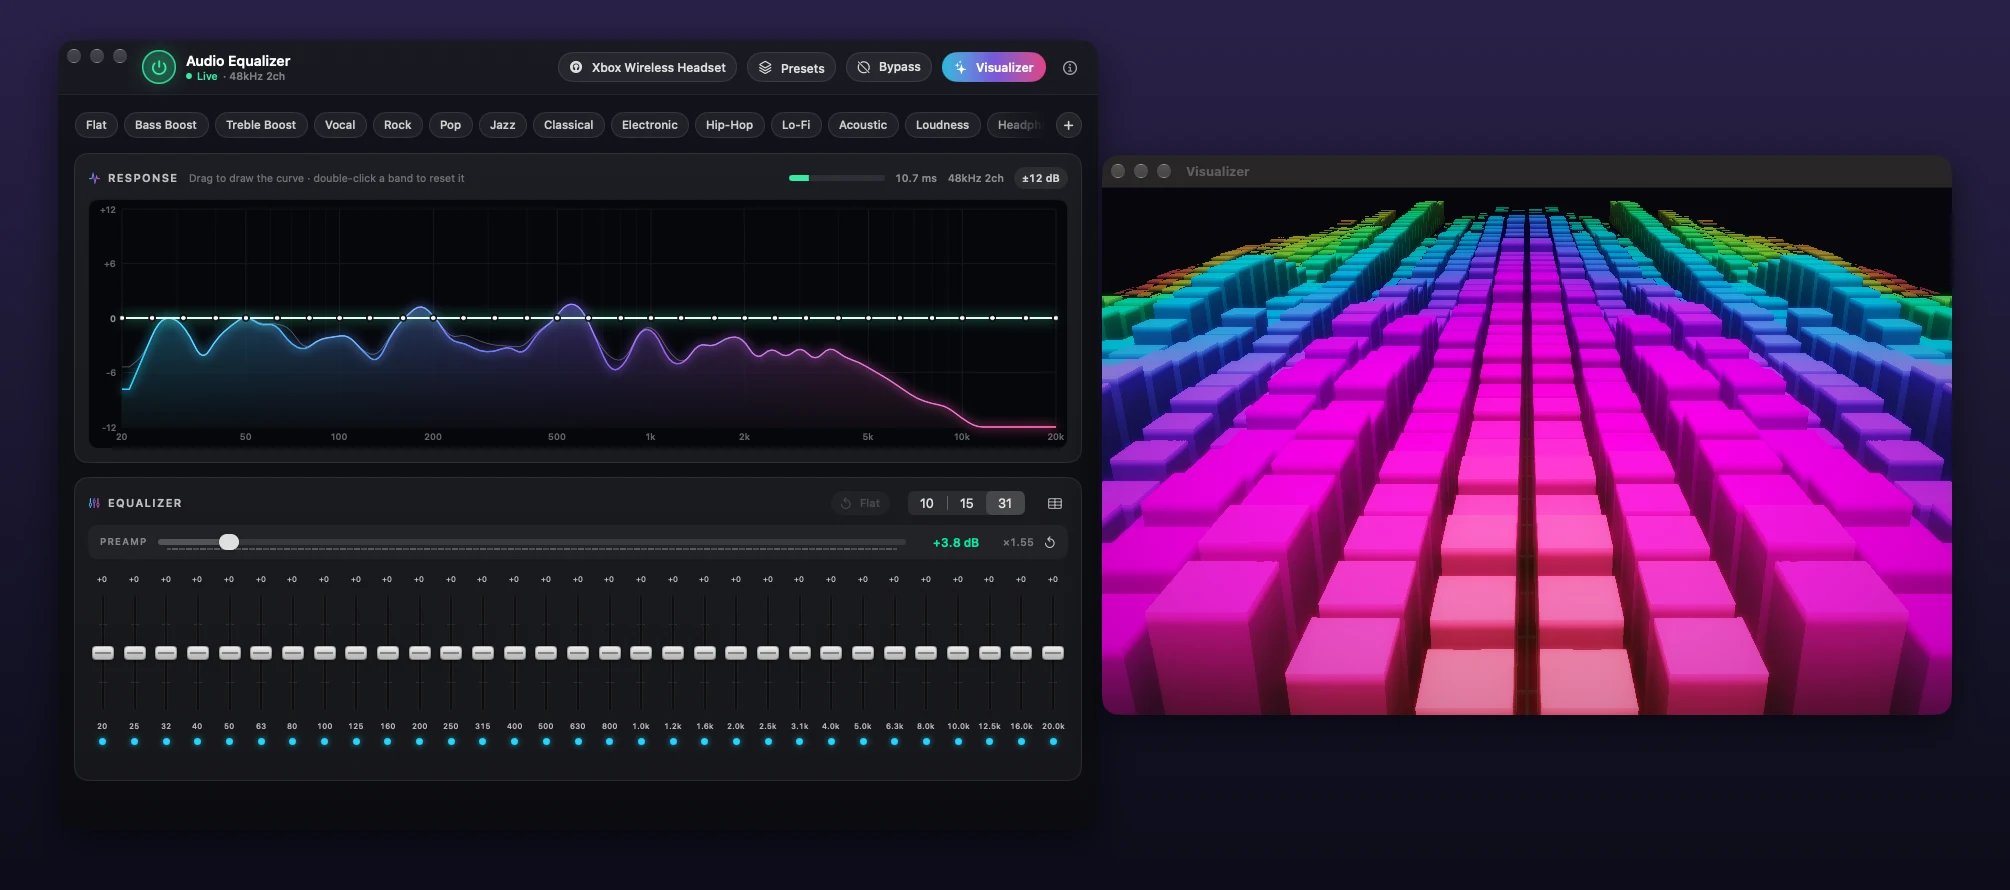
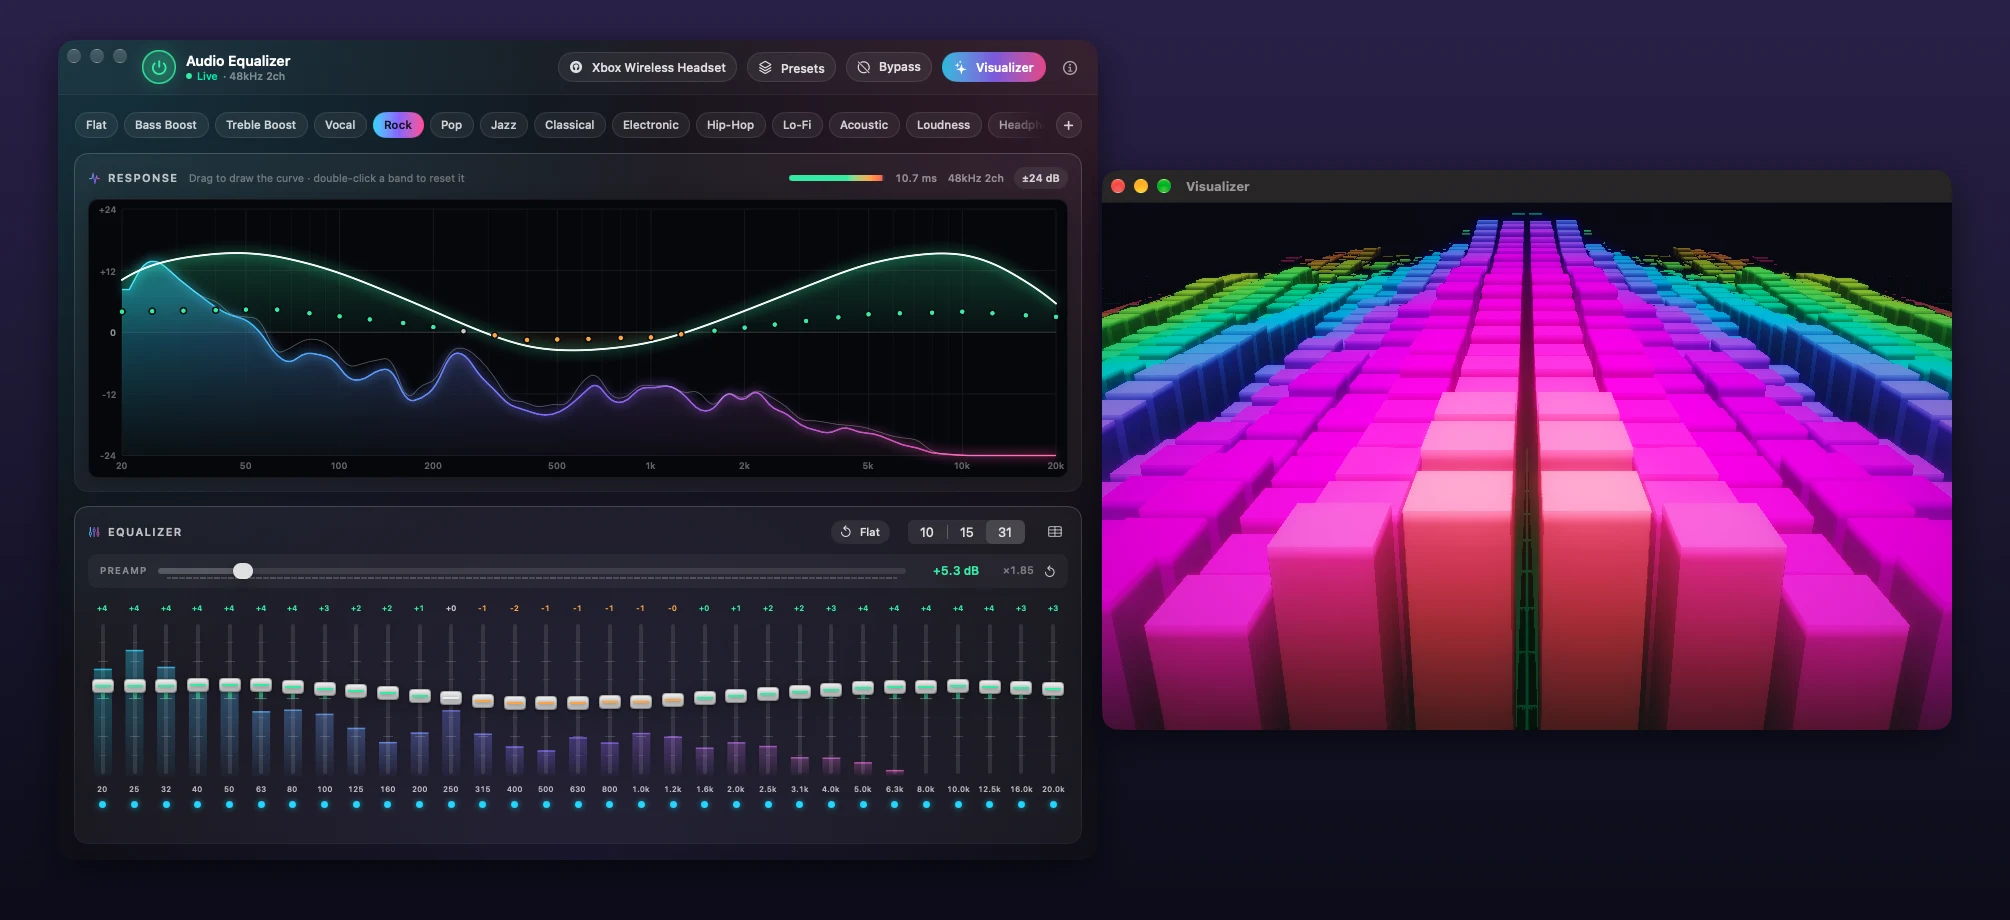
Fill the main window and light the faders with the signal
The graph and the band row now stretch to the window's height instead
of leaving an empty strip below the equalizer. Each fader has a column
of light behind it showing the level at its frequency, drawn by one
separate Canvas so the sliders are not invalidated by the meters.

Also: visible fader tracks with marks at 6, 12 and 18 dB, dimmed
readouts for bands at 0 dB, wider columns in 10- and 15-band mode, an
ambient backdrop, and a lit edge and shadow on the cards.

Changed region(s): [[0.0308, 0.0303, 0.9871, 0.9404]]

diff --git a/AudioEqualizer/Views/BandControlsView.swift b/AudioEqualizer/Views/BandControlsView.swift
@@ -72,7 +72,7 @@ struct BandControlsView: View {
     /// A fixed column width made 31-band mode several screens wide.
     private static let columnSpacing: CGFloat = 2
     private static let minColumnWidth: CGFloat = 20
-    private static let maxColumnWidth: CGFloat = 72
+    private static let maxColumnWidth: CGFloat = 120
 
     private var bandRow: some View {
         GeometryReader { geo in
@@ -81,24 +81,33 @@ struct BandControlsView: View {
             let ideal = (geo.size.width - gaps) / CGFloat(count)
             let column = min(Self.maxColumnWidth, max(Self.minColumnWidth, ideal))
             let fits = column * CGFloat(count) + gaps <= geo.size.width + 0.5
+            let track = max(90, geo.size.height - BandSlider.labelsHeight)
 
             let row = HStack(alignment: .bottom, spacing: Self.columnSpacing) {
                 ForEach(Array(engine.bands.enumerated()), id: \.element.id) { index, _ in
                     BandSlider(
                         band: binding(forIndex: index),
                         index: index,
-                        columnWidth: column
+                        columnWidth: column,
+                        trackLength: track
                     )
                 }
             }
 
             if fits {
-                row.frame(width: geo.size.width, alignment: .center)
+                row
+                    .background(alignment: .topLeading) {
+                        BandLevelBackdrop(
+                            frequencies: engine.bands.map(\.frequency),
+                            column: column, spacing: Self.columnSpacing, trackLength: track
+                        )
+                    }
+                    .frame(width: geo.size.width, alignment: .center)
             } else {
                 ScrollView(.horizontal, showsIndicators: true) { row }
             }
         }
-        .frame(height: BandSlider.rowHeight)
+        .frame(minHeight: BandSlider.minRowHeight, idealHeight: BandSlider.minRowHeight, maxHeight: 360)
         .padding(.vertical, 6)
     }
 
@@ -220,10 +229,14 @@ struct BandSlider: View {
     /// Horizontal space this column may occupy — see `BandControlsView.bandRow`.
     let columnWidth: CGFloat
 
-    /// Track length of the vertical slider.
-    static let trackLength: CGFloat = 130
-    /// Total height of a band column, so the row can be given a fixed height.
-    static let rowHeight: CGFloat = trackLength + 56
+    /// Track length of the vertical slider; grows with the window.
+    let trackLength: CGFloat
+
+    /// Height of everything in a column that is not the track.
+    static let labelsHeight: CGFloat = 56
+    /// Distance from the top of a column to the top of its track.
+    static let trackTop: CGFloat = 15
+    static let minRowHeight: CGFloat = 130 + labelsHeight
 
     private let gainRange: ClosedRange<Double> = -24...24
 
@@ -243,7 +256,7 @@ struct BandSlider: View {
             Text(gainText)
                 .font(.system(size: isCompact ? 8 : 9, weight: band.gain == 0 ? .regular : .semibold))
                 .monospacedDigit()
-                .foregroundStyle(band.isEnabled ? gainColor : Color.white.opacity(0.3))
+                .foregroundStyle(band.isEnabled && band.gain != 0 ? gainColor : Color.white.opacity(0.28))
                 .lineLimit(1)
                 .minimumScaleFactor(0.7)
 
@@ -257,7 +270,7 @@ struct BandSlider: View {
                 step: 0.5,
                 tint: gainColor
             )
-            .frame(width: columnWidth, height: Self.trackLength)
+            .frame(width: columnWidth, height: trackLength)
             .opacity(band.isEnabled ? 1 : 0.35)
 
             // Frequency label
@@ -296,6 +309,69 @@ struct BandSlider: View {
     private var gainColor: Color { Theme.gainColor(band.gain) }
 }
 
+// MARK: - Live level behind the faders
+
+/// A soft column of light behind each fader, as tall as the signal at that
+/// band's frequency — so you can see what a fader is acting on.
+///
+/// Its own view, and one `Canvas`, on purpose: it follows the meters, and the
+/// faders must not. Hanging this off `BandSlider` would invalidate every
+/// slider twenty times a second.
+struct BandLevelBackdrop: View {
+    @EnvironmentObject private var engine: AudioEngine
+    @EnvironmentObject private var meters: MeterState
+    @State private var smoother = SpectrumSmoother()
+
+    let frequencies: [Double]
+    let column: CGFloat
+    let spacing: CGFloat
+    let trackLength: CGFloat
+
+    var body: some View {
+        TimelineView(.animation(minimumInterval: 1.0 / 30.0, paused: !engine.isRunning)) { timeline in
+            Canvas(opaque: false, rendersAsynchronously: false) { context, size in
+                smoother.step(toward: meters.snapshot.spectrum, at: timeline.date, live: engine.isRunning)
+                guard engine.isRunning, !frequencies.isEmpty else { return }
+
+                let values = smoother.values
+                let bottom = BandSlider.trackTop + trackLength - 7
+                let reach = trackLength - 14
+                let width = min(column - 2, 18)
+                for (index, frequency) in frequencies.enumerated() {
+                    let t = log10(min(max(frequency, 20), 20_000) / 20) / 3
+                    let bin = min(values.count - 1, max(0, Int(t * Double(values.count))))
+                    let level = CGFloat(min(1, max(0, values[bin])))
+                    guard level > 0.01 else { continue }
+
+                    let centre = CGFloat(index) * (column + spacing) + column / 2
+                    let height = level * reach
+                    let rect = CGRect(x: centre - width / 2, y: bottom - height, width: width, height: height)
+                    let tint = Self.tint(at: Double(index) / Double(max(1, frequencies.count - 1)))
+                    context.fill(
+                        Path(roundedRect: rect, cornerRadius: 3),
+                        with: .linearGradient(
+                            Gradient(colors: [tint.opacity(0.34), tint.opacity(0.03)]),
+                            startPoint: CGPoint(x: 0, y: rect.minY), endPoint: CGPoint(x: 0, y: rect.maxY)
+                        )
+                    )
+                    context.fill(
+                        Path(roundedRect: CGRect(x: rect.minX, y: rect.minY, width: width, height: 1.5),
+                             cornerRadius: 0.75),
+                        with: .color(tint.opacity(0.75))
+                    )
+                }
+            }
+        }
+        .allowsHitTesting(false)
+    }
+
+    /// The signal gradient, sampled: cyan at the low end, pink at the top.
+    private static func tint(at t: Double) -> Color {
+        t < 0.5 ? Theme.cyan.mix(with: Theme.violet, by: t * 2)
+                : Theme.violet.mix(with: Theme.pink, by: (t - 0.5) * 2)
+    }
+}
+
 // MARK: - Vertical Gain Slider
 
 /// A vertical slider whose knob follows the pointer's vertical position and
@@ -322,16 +398,15 @@ struct VerticalGainSlider: View {
 
             ZStack {
                 // Scale marks at ±12 dB, so a glance places the cap.
-                ForEach([-12.0, 12.0], id: \.self) { mark in
+                ForEach([-18.0, -12.0, -6.0, 6.0, 12.0, 18.0], id: \.self) { mark in
                     Rectangle()
-                        .fill(Color.white.opacity(0.10))
-                        .frame(width: Self.trackWidth + 4, height: 1)
+                        .fill(Color.white.opacity(abs(mark) == 12 ? 0.16 : 0.08))
+                        .frame(width: Self.trackWidth + (abs(mark) == 12 ? 6 : 3), height: 1)
                         .position(x: midX, y: yPosition(for: mark, height: geo.size.height))
                 }
 
                 Capsule()
-                    .fill(Color.black.opacity(0.45))
-                    .overlay(Capsule().strokeBorder(Color.white.opacity(0.07)))
+                    .fill(Color.white.opacity(0.10))
                     .frame(width: Self.trackWidth, height: geo.size.height - Self.knobSize)
                     .position(x: midX, y: geo.size.height / 2)
 

diff --git a/AudioEqualizer/Views/Theme.swift b/AudioEqualizer/Views/Theme.swift
@@ -43,7 +43,12 @@ extension View {
         self
             .padding(padding)
             .background(RoundedRectangle(cornerRadius: 14, style: .continuous).fill(Theme.cardFill))
-            .overlay(RoundedRectangle(cornerRadius: 14, style: .continuous).strokeBorder(Theme.cardStroke))
+            // Lit from above: the rim is brighter at the top edge.
+            .overlay(RoundedRectangle(cornerRadius: 14, style: .continuous).strokeBorder(
+                LinearGradient(colors: [Color.white.opacity(0.17), Color.white.opacity(0.04)],
+                               startPoint: .top, endPoint: .bottom)
+            ))
+            .shadow(color: .black.opacity(0.28), radius: 14, y: 6)
     }
 
     /// A small rounded control surface for the header's menus and toggles.
@@ -58,6 +63,23 @@ extension View {
                 Capsule().strokeBorder(active ? tint.opacity(0.55) : Color.white.opacity(0.10))
             )
             .contentShape(Capsule())
+    }
+}
+
+/// The window's backdrop: the dark gradient, with a wash of the signal
+/// colours bleeding in from the top corners so the cards have something to
+/// sit in front of.
+struct AmbientBackground: View {
+    var body: some View {
+        ZStack {
+            Theme.background
+            RadialGradient(colors: [Theme.cyan.opacity(0.16), .clear],
+                           center: .topLeading, startRadius: 0, endRadius: 620)
+            RadialGradient(colors: [Theme.pink.opacity(0.13), .clear],
+                           center: .topTrailing, startRadius: 0, endRadius: 560)
+            RadialGradient(colors: [Theme.violet.opacity(0.12), .clear],
+                           center: .bottom, startRadius: 0, endRadius: 700)
+        }
     }
 }
 

diff --git a/AudioEqualizer/Views/MainView.swift b/AudioEqualizer/Views/MainView.swift
@@ -10,21 +10,27 @@ struct MainView: View {
         VStack(spacing: 0) {
             HeaderBar()
             Rectangle().fill(Theme.hairline).frame(height: 1)
-            ScrollView {
-                VStack(spacing: 14) {
-                    PresetChips()
-                    SpectrumView()
-                    BandControlsView()
-                        .frame(maxWidth: .infinity)
+            // The graph and the faders stretch to fill whatever height the
+            // window has; the scroll view only matters once the band details
+            // table is open and the content outgrows it.
+            GeometryReader { geo in
+                ScrollView {
+                    VStack(spacing: 14) {
+                        PresetChips()
+                        SpectrumView()
+                        BandControlsView()
+                            .frame(maxWidth: .infinity)
+                    }
+                    .padding(16)
+                    .frame(minHeight: geo.size.height)
                 }
-                .padding(16)
             }
         }
-        .frame(minWidth: 900, minHeight: 640)
+        .frame(minWidth: 900, minHeight: 700)
         // Up into the hidden title bar, so the header shares its row with
         // the traffic lights instead of sitting under an empty strip.
         .ignoresSafeArea(.container, edges: .top)
-        .background(Theme.background.ignoresSafeArea())
+        .background(AmbientBackground().ignoresSafeArea())
         .preferredColorScheme(.dark)
     }
 }

diff --git a/AudioEqualizer/Views/SpectrumView.swift b/AudioEqualizer/Views/SpectrumView.swift
@@ -90,7 +90,7 @@ struct SpectrumView: View {
                     }
                 }
             }
-            .frame(height: 250)
+            .frame(minHeight: 190, idealHeight: 250, maxHeight: .infinity)
             .background(Theme.well)
             .clipShape(RoundedRectangle(cornerRadius: 10, style: .continuous))
             .overlay(RoundedRectangle(cornerRadius: 10, style: .continuous).strokeBorder(Theme.hairline))
@@ -412,8 +412,9 @@ private struct GraphLayout {
 /// Eases the drawn spectrum toward the 20 Hz meter snapshots so the graph
 /// moves at display rate, and tracks a slowly falling peak for each bin.
 /// A class rather than `@State` values: it is advanced from inside the
-/// `Canvas` renderer, where view state cannot be written.
-private final class SpectrumSmoother {
+/// `Canvas` renderer, where view state cannot be written. Each view that
+/// draws the spectrum owns its own.
+final class SpectrumSmoother {
     private(set) var values = [Float](repeating: 0, count: 64)
     private(set) var peaks = [Float](repeating: 0, count: 64)
     private var last: Date?

diff --git a/AudioEqualizer/App/AudioEqualizerApp.swift b/AudioEqualizer/App/AudioEqualizerApp.swift
@@ -55,7 +55,7 @@ struct AudioEqualizerApp: App {
                 .environmentObject(presetManager)
                 .environmentObject(deviceProfiles)
                 .environmentObject(milkdropLibrary)
-                .frame(minWidth: 900, minHeight: 640)
+                .frame(minWidth: 900, minHeight: 700)
                 .task {
                     #if DEBUG
                     if let gallery = DebugGallery.directory {

diff --git a/AGENTS.md b/AGENTS.md
@@ -65,7 +65,8 @@ The output-device listener updates `selectedOutputDeviceID`; while running, the 
 - Changing band count replaces the EQ node because `AVAudioUnitEQ` has a fixed band count. Preserve nearest old-band settings, as `setBandCount(_:)` does.
 - Gain is clamped to `-24...24 dB`; bandwidth is clamped to `0.1...5.0`; master gain is a multiplier limited to `15.85` (about `+24 dB`) and applied through `AVAudioUnitEQ.globalGain`.
 - `isBypassed` changes each EQ filter's bypass state; it does not tear down the system route. `toggleBypass()` is the header's Bypass button and ⌘B.
-- Meter updates belong on `MeterState`, not `AudioEngine`, to avoid invalidating all slider views ~20 times per second.
+- Meter updates belong on `MeterState`, not `AudioEngine`, to avoid invalidating all slider views ~20 times per second. For the same reason the live level drawn behind the faders is one separate view, `BandLevelBackdrop` (a single `Canvas` laid behind the band row), not something each `BandSlider` observes.
+- The main window's content fills its height: `MainView` gives the scroll content the viewport's height as a minimum, and the graph and the band row are the two flexible pieces (the row is capped at 360 pt; the fader track length is whatever is left after `BandSlider.labelsHeight`). The scroll view only scrolls once the band details table is open.
 - **Everything the visualizer draws must be driven by audio.** One clock (`phase`) feeds every time-based motion — shader patterns, replicator spin, the sequence wave, the feedback ripple — and it advances in proportion to audio energy, so silence freezes the whole renderer. Do not reintroduce a wall-clock increment, and do not give an element a non-zero size or emission rate at zero signal; a visual that animates in silence is decoration. The one wall-clock term is the ~1 s `fade` of a transition, which runs once and stops. Verify both directions: with the engine stopped, successive captures of the window must be byte-identical, and with audio they must differ.
 - `SystemAudioRenderer.clearAnalysisBuffer()` must be called whenever processing stops. `scratchFilled` latches true, so without it the ring keeps serving its last frames and meters and visuals animate from a frozen snapshot long after the engine has stopped.
 - `visualizerFrame()` is pulled at display rate, not the 20 Hz meter rate. Its `bass` and `level` come from the newest 512 samples through a ~150 Hz one-pole filter rather than the 2,048-sample FFT window: that window is tuned for frequency resolution and smears the transients a beat-reactive visual has to land on.

diff --git a/README.md b/README.md
@@ -4,7 +4,7 @@ A system-wide equalizer for macOS. It shapes and boosts whatever your Mac is
 playing (music, videos, games, calls) on whichever output you are using, with
 no virtual audio driver to install.
 
-![Audio Equalizer's main window, with the EQ curve drawn over the live spectrum above a 31-band equalizer, next to the visualizer window showing the Skyline mode.](docs/screenshot.webp)
+![Audio Equalizer's main window with the Rock preset applied: the EQ curve drawn over the live spectrum, above a 31-band equalizer whose faders are lit by the signal at each band, next to the visualizer window showing the Skyline mode.](docs/screenshot.webp)
 
 - **10, 15 or 31 band graphic EQ**, from 20 Hz to 20 kHz, ±24 dB per band.
 - **Master gain up to +24 dB**, for quiet laptops, speakers and headphones.
